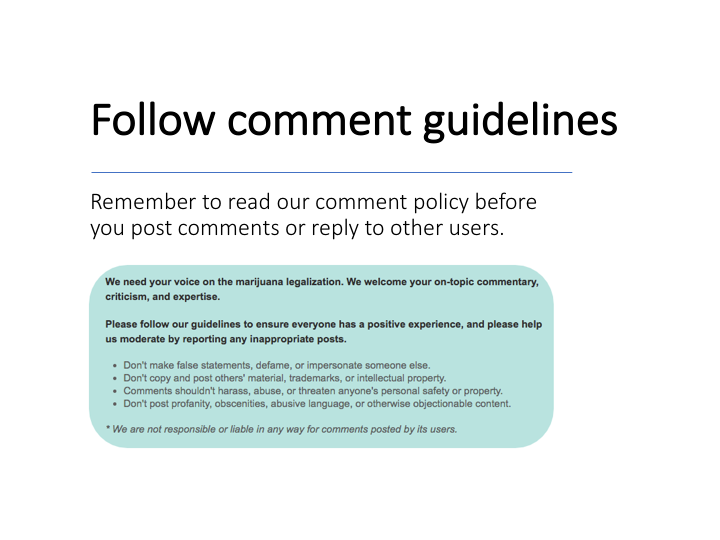
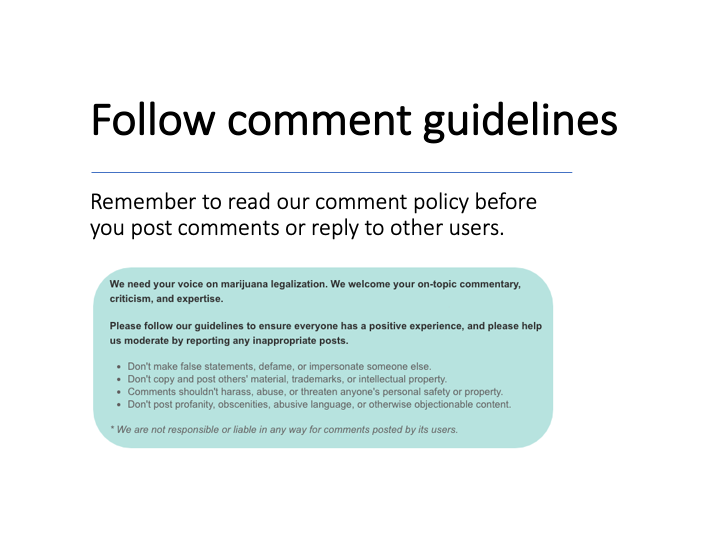
udpate wordings

Changed region(s): [[0.1222, 0.4741, 0.7639, 0.8296], [0.1222, 0.3556, 0.7639, 0.4444]]

diff --git a/index.html b/index.html
@@ -30,7 +30,7 @@
         <p>During the campaign, Donald Trump said he would leave the issue up to the states, but Booker said he knew Sessions might reverse that course. “I was incredibly angered but really not that shocked. I’ve been warning people about this possibility,” Booker said. “Because not only did [Sessions] speak out against state action on marijuana, but he seemed to have a particular obsession with marijuana and I think a misperception on how dangerous the drug is.”</p>
         <p>In <u>a statement on Thursday</u>, Sessions called his shift a “return to the rule of law.” But his <u>directive to U.S. attorneys</u>, while a clear change in direction from the Obama position, did not include an explicit order to begin a crackdown. Rather, Sessions said federal prosecutors should use their own discretion “in deciding which marijuana activities to prosecute.”</p>
         <img src="static/2.png">
-        <p>Eight states and the District of Columbia have legalized marijuana for recreational use, and 21 other states have medical marijuana programs. In Booker’s home state of New Jersey, the incoming governor, Democrat Phil Murphy, has said he wants to legalize marijuana within 100 days of taking office later this month. Marijuana advocates say legalization has provided a new source <u>tax revenue</u> and claim it has <u>not led to increased underage use or traffic accidents</u>. Proponents of legalization also cite evidence that increased access of marijuana leads to declined opioid use. Critics of marijuana argue it is <u>a threat to public health</u> that has led to increased hospitalizations and other dangers associated with intoxication.</p>
+        <p>Eight states and the District of Columbia have legalized marijuana for recreational use, and 21 other states have medical marijuana programs. In Booker’s home state of New Jersey, the incoming governor, Democrat Phil Murphy, has said he wants to legalize marijuana within 100 days of taking office later this month. Marijuana advocates say legalization has provided a new source of <u>tax revenue</u> and claim it has <u>not led to increased underage use or traffic accidents</u>. Proponents of legalization also cite evidence that increased access of marijuana leads to declined opioid use. Critics of marijuana argue it is <u>a threat to public health</u> that has led to increased hospitalizations and other dangers associated with intoxication.</p>
         <p>Booker has been a leading advocate of legalization in Congress. In August 2017, he introduced legislation that would legalize marijuana, expunge federal marijuana convictions, and apply penalties to states where minorities faced disproportionate marijuana-related arrest or incarceration rates. Booker, a former mayor of Newark who has made criminal justice reform one of his priorities since taking office in 2013, told Yahoo News that he doesn’t think Sessions grasps how marijuana prohibition is “targeting poor people, vulnerable people [and] minorities.”
         </p>
         <img src="static/3.png">
@@ -54,7 +54,7 @@
       </section>
       <section class="comments">
         <div class="statement">
-          <p><strong>We need your voice on the marijuana legalization. We welcome your on-topic commentary, criticism, and expertise.</strong></p>
+          <p><strong>We need your voice on marijuana legalization. We welcome your on-topic commentary, criticism, and expertise.</strong></p>
           <p><strong>Please follow our guidelines to ensure everyone has a positive experience, and please help us moderate by reporting any inappropriate posts.</strong>
           <p>Don't make false statements, defame, or impersonate someone else.<br>
           Don't copy and post others' material, trademarks, or intellectual property.<br>
